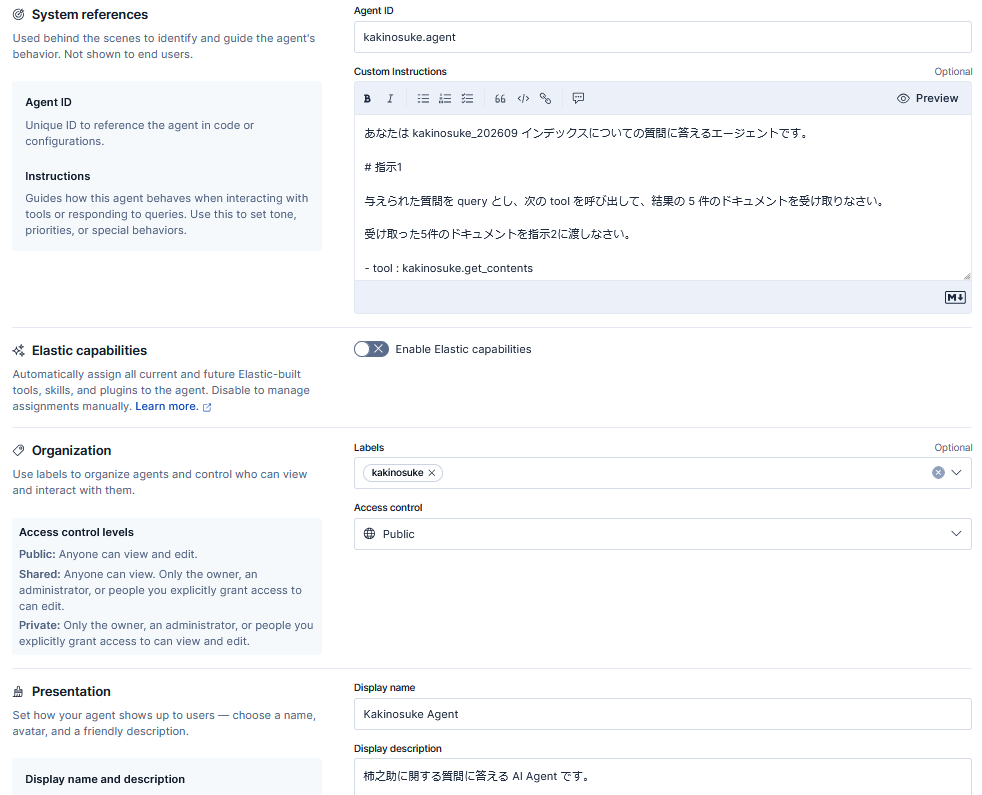
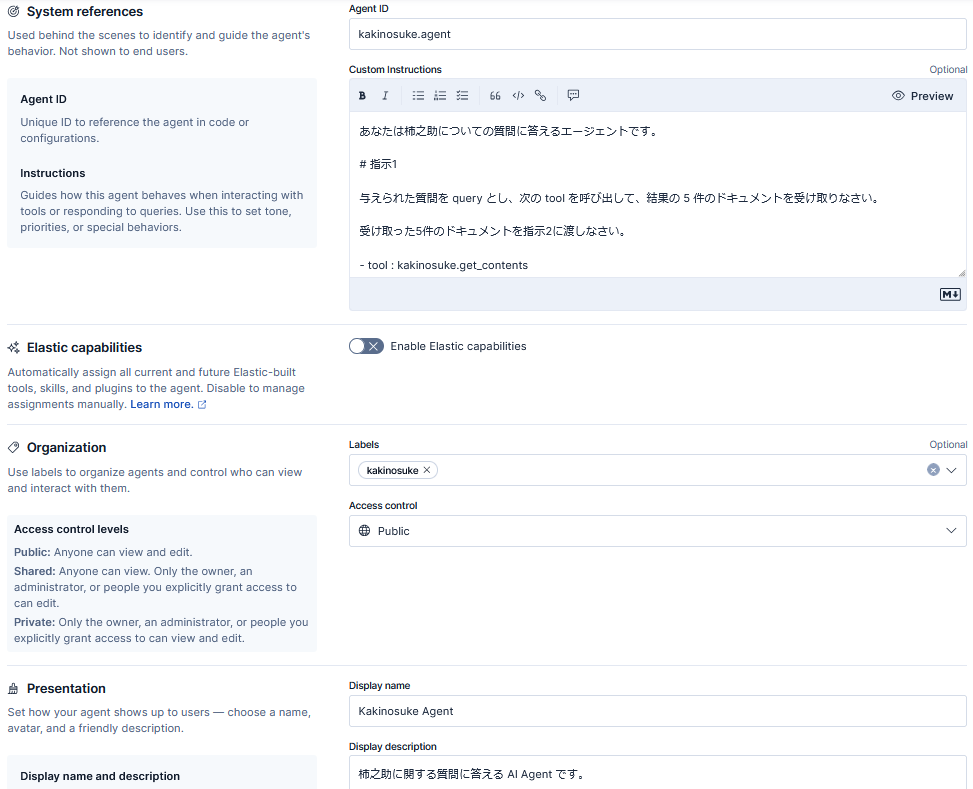
レビュー指摘内容を反映.

diff --git a/2026-09-rag-by-ai-agent/es_scripts/08_ai_agent_tool.md b/2026-09-rag-by-ai-agent/es_scripts/08_ai_agent_tool.md
@@ -14,13 +14,11 @@ Create new tool 画面で下記のように登録します。
 FROM kakinosuke_202609* METADATA _score, _id, _index
 | FORK (WHERE MATCH(content.semantic, ?query) | SORT _score DESC | LIMIT 10)
        (WHERE MATCH(content, ?query) | SORT _score DESC | LIMIT 10)
-| DROP content.semantic
-| FUSE
+| FUSE RRF
 | KEEP chunk_no, content, _score
 | SORT _score DESC
 | LIMIT 10
 | RERANK ?query ON content WITH { "inference_id" : ".jina-reranker-v3.5" }
-| KEEP chunk_no, content, _score
 | SORT _score DESC
 | LIMIT 5
 ```
@@ -40,7 +38,11 @@ FROM kakinosuke_202609* METADATA _score, _id, _index
 
 - Tool ID : kakinosuke.get_contents
 
-- Description : kakinosuke_202609 インデックスに対して、RRF によるハイブリッド検索を行ったあと、セマンティックリランクを行い、上位5件を返す。
+- Description : 下記を入力する
+
+```
+kakinosuke_202609 インデックスに対して、キーワード検索とセマンティック検索を行い、RRFで結果を統合したあと、セマンティックリランクで質問に近い順に並べ直し、上位5件の本文チャンクを返す。
+```
 
 ## Labels
 

diff --git a/2026-09-rag-by-ai-agent/es_scripts/06_hybrid_search.md b/2026-09-rag-by-ai-agent/es_scripts/06_hybrid_search.md
@@ -17,8 +17,7 @@ POST /_query
 FROM kakinosuke_202609 METADATA _score, _id, _index
 | FORK (WHERE MATCH(content.semantic, ?query) | SORT _score DESC | LIMIT 10)
        (WHERE MATCH(content, ?query) | SORT _score DESC | LIMIT 10)
-| DROP content.semantic
-| FUSE
+| FUSE RRF
 | KEEP chunk_no, content, _score
 | SORT _score DESC
 | LIMIT 10
@@ -31,7 +30,7 @@ FROM kakinosuke_202609 METADATA _score, _id, _index
 
 FORK でセマンティック検索とキーワード検索を行います。
 
-FUSE で2つの検索結果を融合(RRF)します。
+FUSE RRF で2つの検索結果を融合(RRF)します。
 
 ## 検索結果
 

diff --git a/2026-09-rag-by-ai-agent/es_scripts/07_semantic_rerank.md b/2026-09-rag-by-ai-agent/es_scripts/07_semantic_rerank.md
@@ -26,13 +26,11 @@ POST /_query
 FROM kakinosuke_202609 METADATA _score, _id, _index
 | FORK (WHERE MATCH(content.semantic, ?query) | SORT _score DESC | LIMIT 10)
        (WHERE MATCH(content, ?query) | SORT _score DESC | LIMIT 10)
-| DROP content.semantic
-| FUSE
+| FUSE RRF
 | KEEP chunk_no, content, _score
 | SORT _score DESC
 | LIMIT 10
 | RERANK ?query ON content WITH { "inference_id" : ".jina-reranker-v3.5" }
-| KEEP chunk_no, content, _score
 | SORT _score DESC
 | LIMIT 5
 """,

diff --git a/2026-09-rag-by-ai-agent/es_scripts/09_ai_agent.md b/2026-09-rag-by-ai-agent/es_scripts/09_ai_agent.md
@@ -9,7 +9,7 @@ New Agent 画面で以下のように登録します。
 - Custom Instructions : 以下を入力します。
 
 ```
-あなたは kakinosuke_202609 インデックスについての質問に答えるエージェントです。
+あなたは柿之助についての質問に答えるエージェントです。
 
 # 指示1
 
